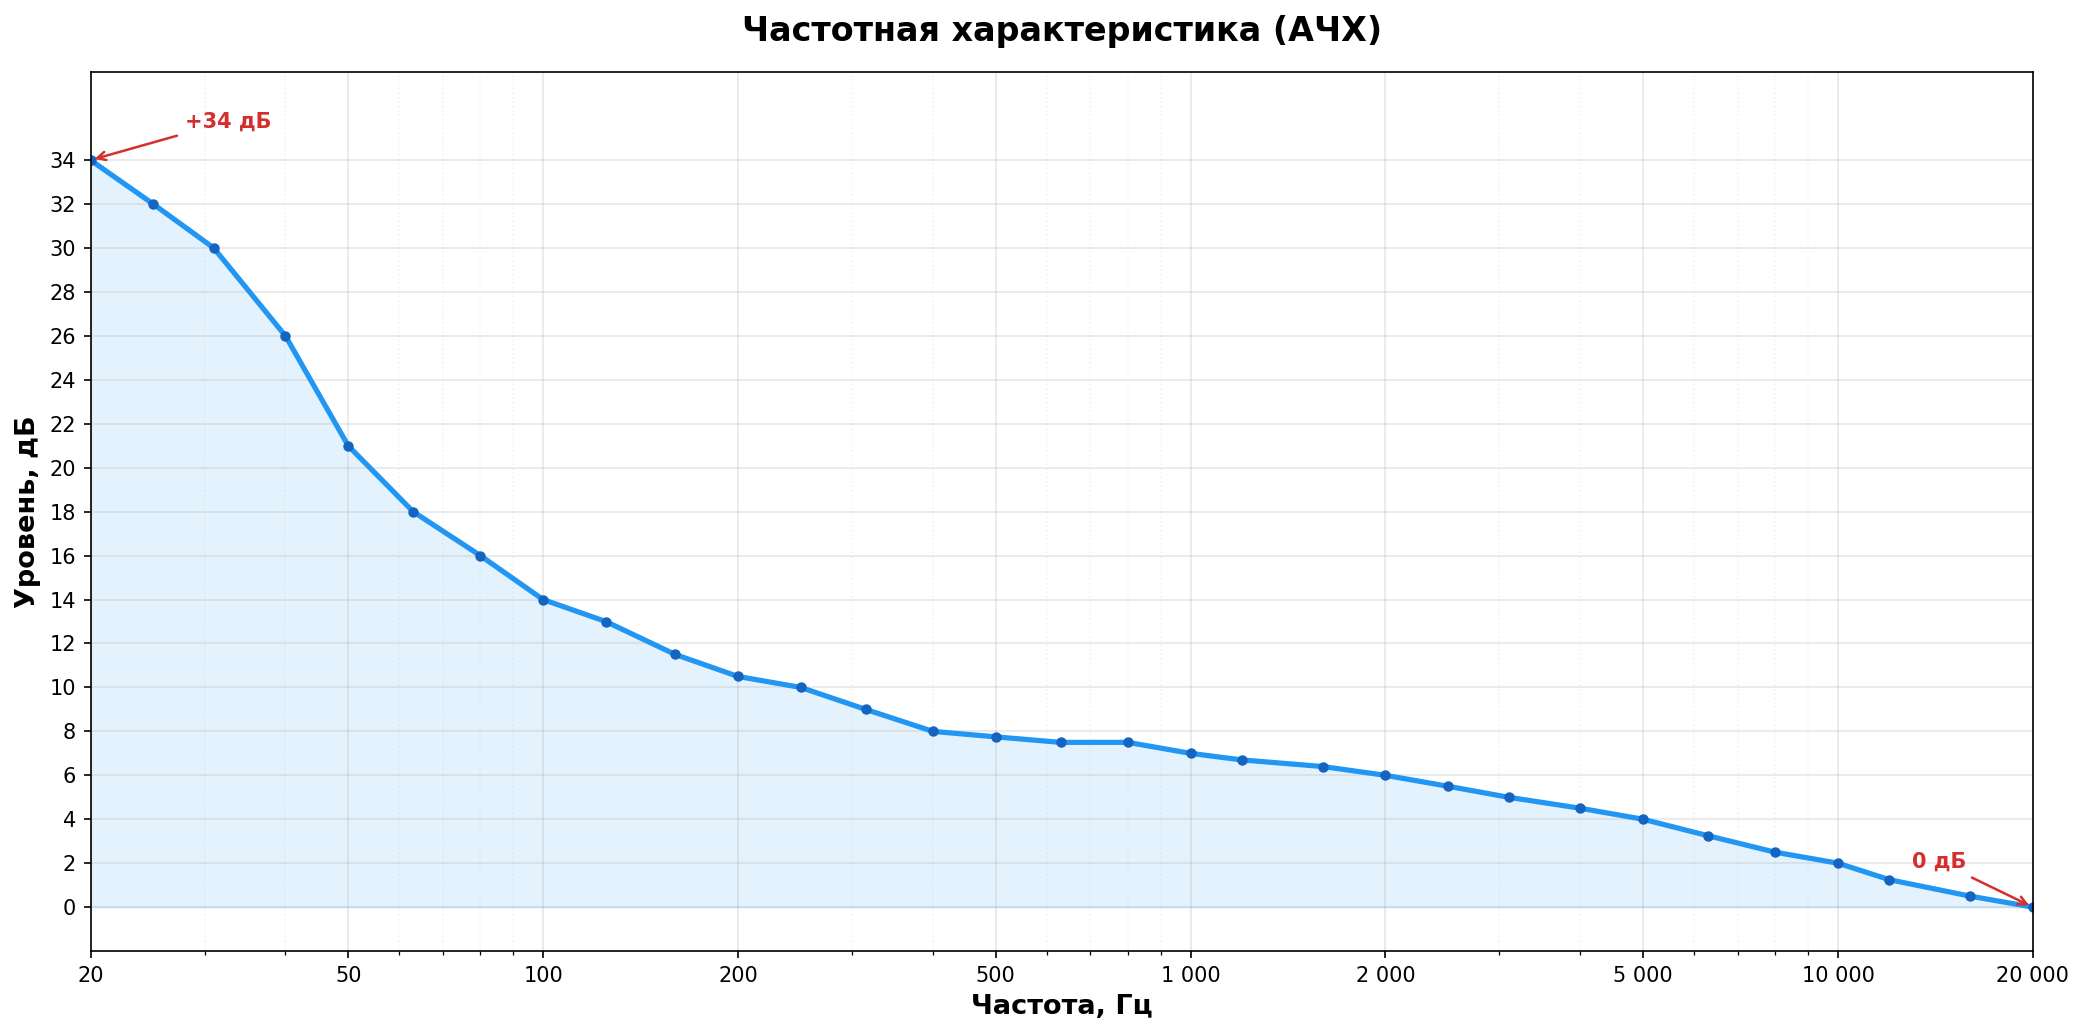
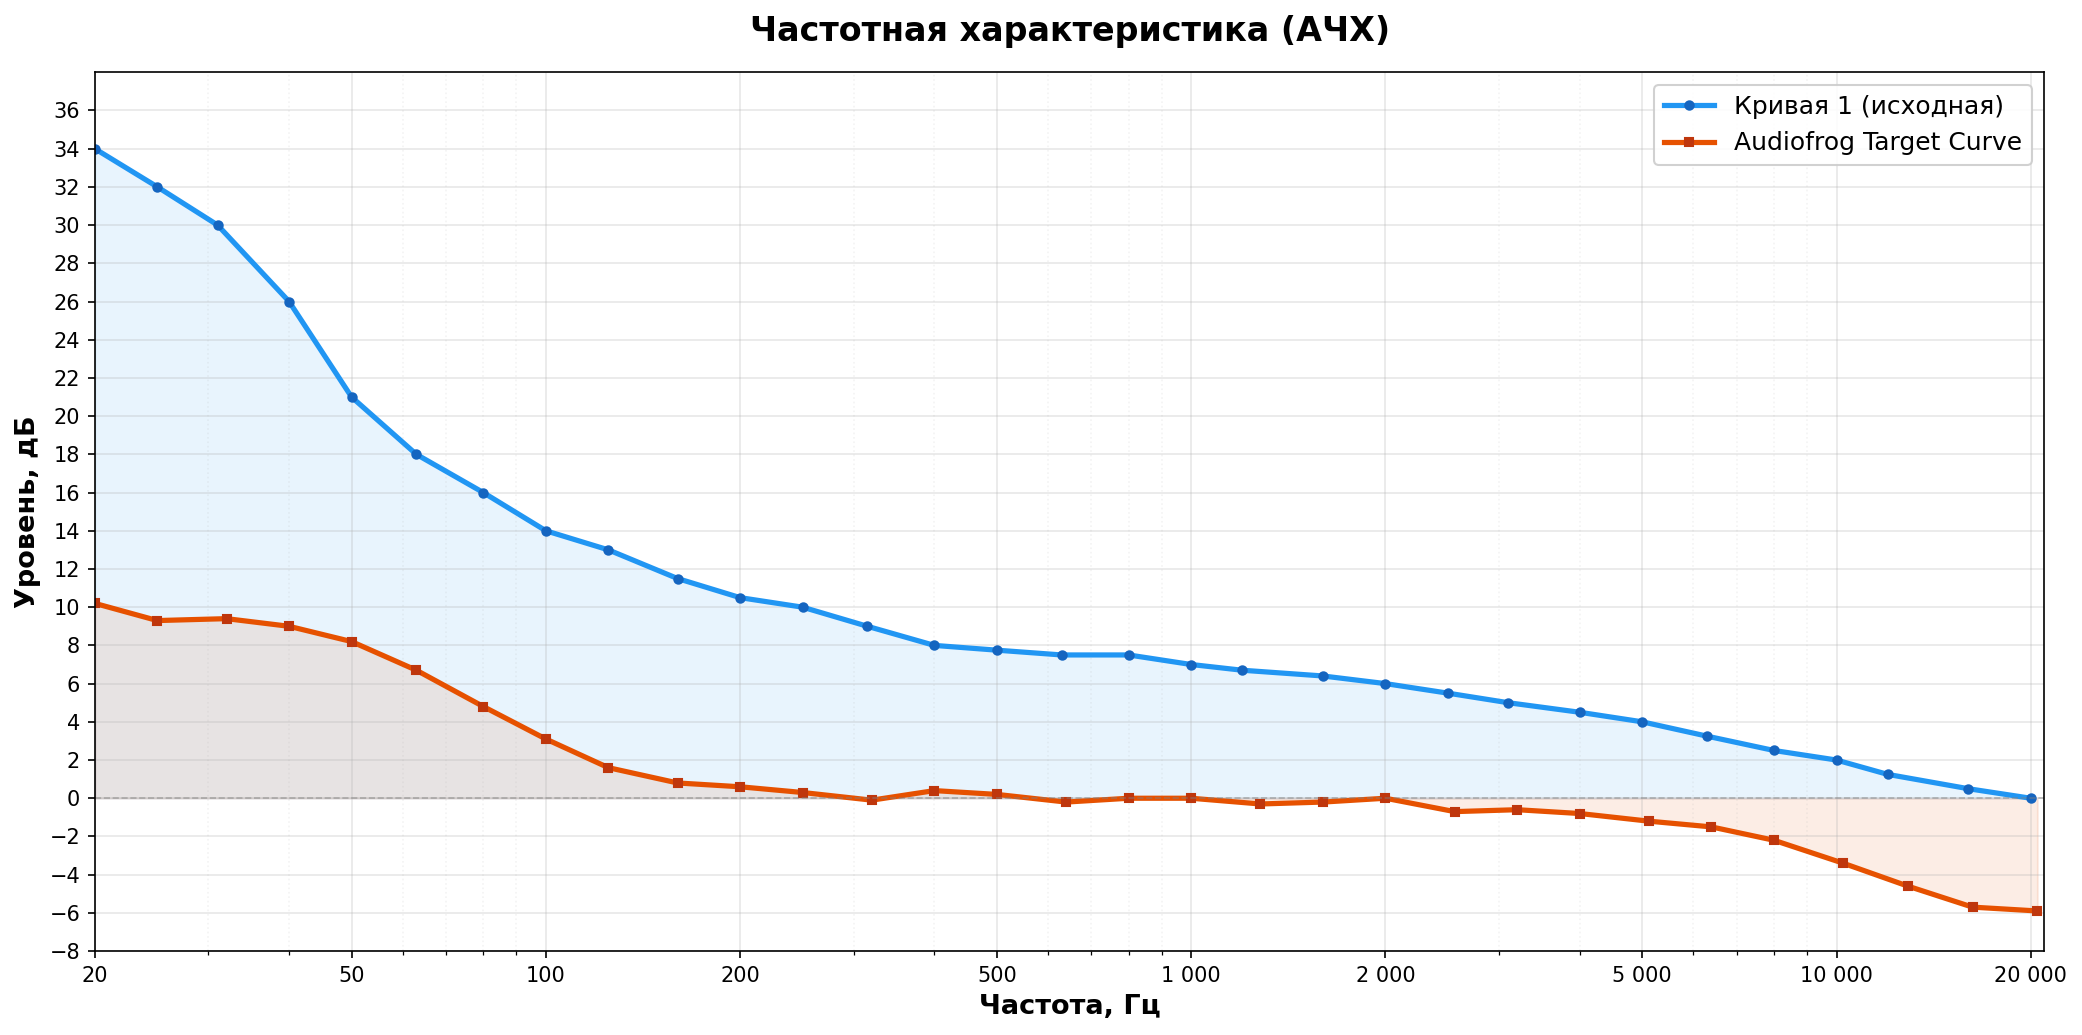
Add Audiofrog Target Curve as second line on the graph
Both curves are labeled in the legend. Y-axis extended
to accommodate negative dB values of the Audiofrog curve.

https://claude.ai/code/session_016koBhqca1nn2rMJ2podVbu

diff --git a/frequency_response.py b/frequency_response.py
@@ -4,28 +4,44 @@ import matplotlib.pyplot as plt
 import matplotlib.ticker as ticker
 import numpy as np
 
-# Data
-freq = [20, 25, 31, 40, 50, 63, 80, 100, 125, 160, 200, 250, 315, 400, 500,
-        630, 800, 1000, 1200, 1600, 2000, 2500, 3100, 4000, 5000, 6300, 8000,
-        10000, 12000, 16000, 20000]
+# Curve 1 data
+freq1 = [20, 25, 31, 40, 50, 63, 80, 100, 125, 160, 200, 250, 315, 400, 500,
+         630, 800, 1000, 1200, 1600, 2000, 2500, 3100, 4000, 5000, 6300, 8000,
+         10000, 12000, 16000, 20000]
 
-db = [34, 32, 30, 26, 21, 18, 16, 14, 13, 11.5, 10.5, 10.0, 9.0, 8.0, 7.75,
-      7.5, 7.5, 7.0, 6.7, 6.4, 6.0, 5.5, 5.0, 4.5, 4.0, 3.25, 2.5, 2.0,
-      1.25, 0.5, 0]
+db1 = [34, 32, 30, 26, 21, 18, 16, 14, 13, 11.5, 10.5, 10.0, 9.0, 8.0, 7.75,
+       7.5, 7.5, 7.0, 6.7, 6.4, 6.0, 5.5, 5.0, 4.5, 4.0, 3.25, 2.5, 2.0,
+       1.25, 0.5, 0]
+
+# Curve 2 — Audiofrog Target Curve (normalized to 1 kHz = 0 dB)
+freq2 = [20, 25, 32, 40, 50, 63, 80, 100, 125, 160, 200, 250, 320, 400, 500,
+         640, 800, 1000, 1280, 1600, 2000, 2560, 3200, 4000, 5120, 6400, 8000,
+         10240, 12900, 16250, 20480]
+
+db2 = [10.2, 9.3, 9.4, 9.0, 8.2, 6.7, 4.8, 3.1, 1.6, 0.8, 0.6, 0.3, -0.1,
+       0.4, 0.2, -0.2, 0.0, 0.0, -0.3, -0.2, 0.0, -0.7, -0.6, -0.8, -1.2,
+       -1.5, -2.2, -3.4, -4.6, -5.7, -5.9]
 
 fig, ax = plt.subplots(figsize=(14, 7))
 
-# Plot line
-ax.semilogx(freq, db, color='#2196F3', linewidth=2.5, marker='o', markersize=4,
-            markerfacecolor='#1565C0', markeredgecolor='#1565C0')
+# Plot curve 1
+ax.semilogx(freq1, db1, color='#2196F3', linewidth=2.5, marker='o', markersize=4,
+            markerfacecolor='#1565C0', markeredgecolor='#1565C0',
+            label='Кривая 1 (исходная)')
 
-# Fill under curve
-ax.fill_between(freq, db, alpha=0.12, color='#2196F3')
+# Plot curve 2
+ax.semilogx(freq2, db2, color='#E65100', linewidth=2.5, marker='s', markersize=4,
+            markerfacecolor='#BF360C', markeredgecolor='#BF360C',
+            label='Audiofrog Target Curve')
+
+# Fill under curves
+ax.fill_between(freq1, db1, alpha=0.10, color='#2196F3')
+ax.fill_between(freq2, db2, alpha=0.10, color='#E65100')
 
 # Axis config
 ax.set_xscale('log')
-ax.set_xlim(20, 20000)
-ax.set_ylim(-2, 38)
+ax.set_xlim(20, 21000)
+ax.set_ylim(-8, 38)
 ax.set_xlabel('Частота, Гц', fontsize=13, fontweight='bold')
 ax.set_ylabel('Уровень, дБ', fontsize=13, fontweight='bold')
 ax.set_title('Частотная характеристика (АЧХ)', fontsize=16, fontweight='bold', pad=15)
@@ -37,19 +53,17 @@ ax.set_xticklabels([f'{f:,}'.replace(',', ' ') if f >= 1000 else str(f) for f in
 ax.xaxis.set_minor_formatter(ticker.NullFormatter())
 
 # Y ticks
-ax.set_yticks(range(0, 36, 2))
+ax.set_yticks(range(-8, 38, 2))
 
 # Grid
 ax.grid(True, which='major', linestyle='-', alpha=0.3)
 ax.grid(True, which='minor', linestyle=':', alpha=0.15)
 
-# Annotate endpoints
-ax.annotate('+34 дБ', xy=(20, 34), xytext=(28, 35.5),
-            fontsize=10, fontweight='bold', color='#D32F2F',
-            arrowprops=dict(arrowstyle='->', color='#D32F2F', lw=1.2))
-ax.annotate('0 дБ', xy=(20000, 0), xytext=(13000, 1.8),
-            fontsize=10, fontweight='bold', color='#D32F2F',
-            arrowprops=dict(arrowstyle='->', color='#D32F2F', lw=1.2))
+# Zero line
+ax.axhline(y=0, color='gray', linewidth=0.8, linestyle='--', alpha=0.5)
+
+# Legend
+ax.legend(fontsize=12, loc='upper right', framealpha=0.9)
 
 plt.tight_layout()
 plt.savefig('/home/user/shadowrocket/frequency_response.png', dpi=150, bbox_inches='tight')
